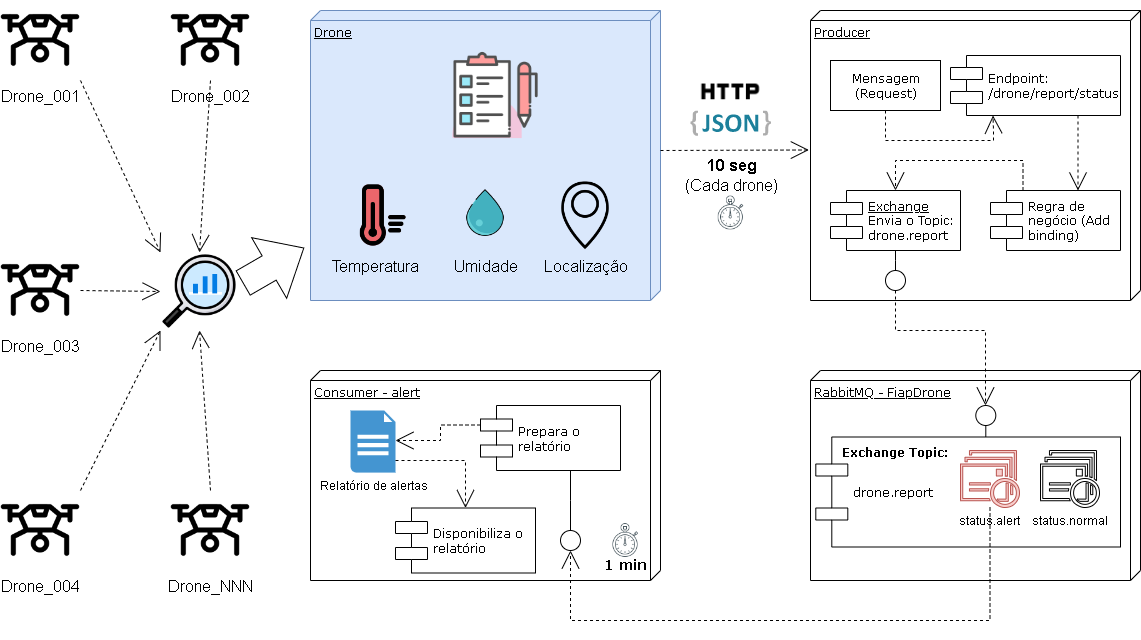
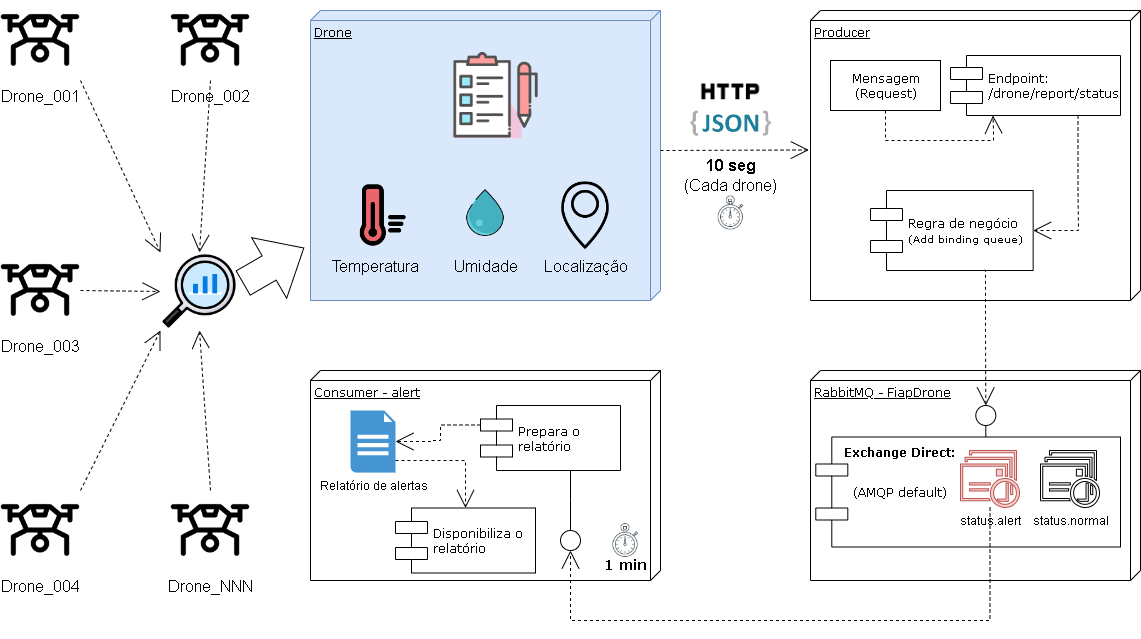
#8 Utilizado o tipo double para geração da localização

diff --git a/src/main/java/br/com/fiap/drone/service/GenerateRandomData.java b/src/main/java/br/com/fiap/drone/service/GenerateRandomData.java
@@ -4,7 +4,7 @@ import br.com.fiap.drone.domain.DroneStatus;
 import org.springframework.beans.factory.annotation.Value;
 import org.springframework.stereotype.Component;
 
-import static br.com.fiap.drone.util.IntegerUtils.*;
+import static br.com.fiap.drone.util.RandomValueUtils.*;
 
 @Component
 public class GenerateRandomData {
@@ -17,8 +17,8 @@ public class GenerateRandomData {
                 .idDrone(idDrone)
                 .umidade(generateRandNumber(0, 100))
                 .temperatura(generateRandNumber(-25, 40))
-                .latitude(String.valueOf(generateRandNumber(-90, 90)))
-                .longitude(String.valueOf(generateRandNumber(-180, 180)))
+                .latitude(generateRandNumber(-90.0, 90.0))
+                .longitude(generateRandNumber(-180.0, 180.0))
                 .build();
     }
 

diff --git a/src/main/java/br/com/fiap/drone/util/RandomValueUtils.java b/src/main/java/br/com/fiap/drone/util/RandomValueUtils.java
@@ -1,0 +1,18 @@
+package br.com.fiap.drone.util;
+
+import org.springframework.stereotype.Component;
+
+import java.util.Random;
+
+@Component
+public final class RandomValueUtils {
+
+    public static int generateRandNumber(int min, int max) {
+        return new Random().nextInt(max-min) + min;
+    }
+
+    public static double generateRandNumber(double min, double max) {
+        return new Random().nextDouble(max-min) + min;
+    }
+
+}

diff --git a/src/main/java/br/com/fiap/drone/domain/DroneStatus.java b/src/main/java/br/com/fiap/drone/domain/DroneStatus.java
@@ -12,8 +12,8 @@ import java.io.Serializable;
 @AllArgsConstructor
 public class DroneStatus implements Serializable {
     private String idDrone;
-    private String latitude;
-    private String longitude;
+    private double latitude;
+    private double longitude;
     private int temperatura;
     private int umidade;
 

diff --git a/src/main/java/br/com/fiap/drone/service/SendService.java b/src/main/java/br/com/fiap/drone/service/SendService.java
@@ -28,6 +28,7 @@ public class SendService {
             httpPost.setHeader("content-type", String.valueOf(ContentType.APPLICATION_JSON));
             httpClient.execute(httpPost);
 
+            log.info(droneStatus.toString());
         } catch (IOException e) {
             log.error(e.getMessage(), e);
         }
